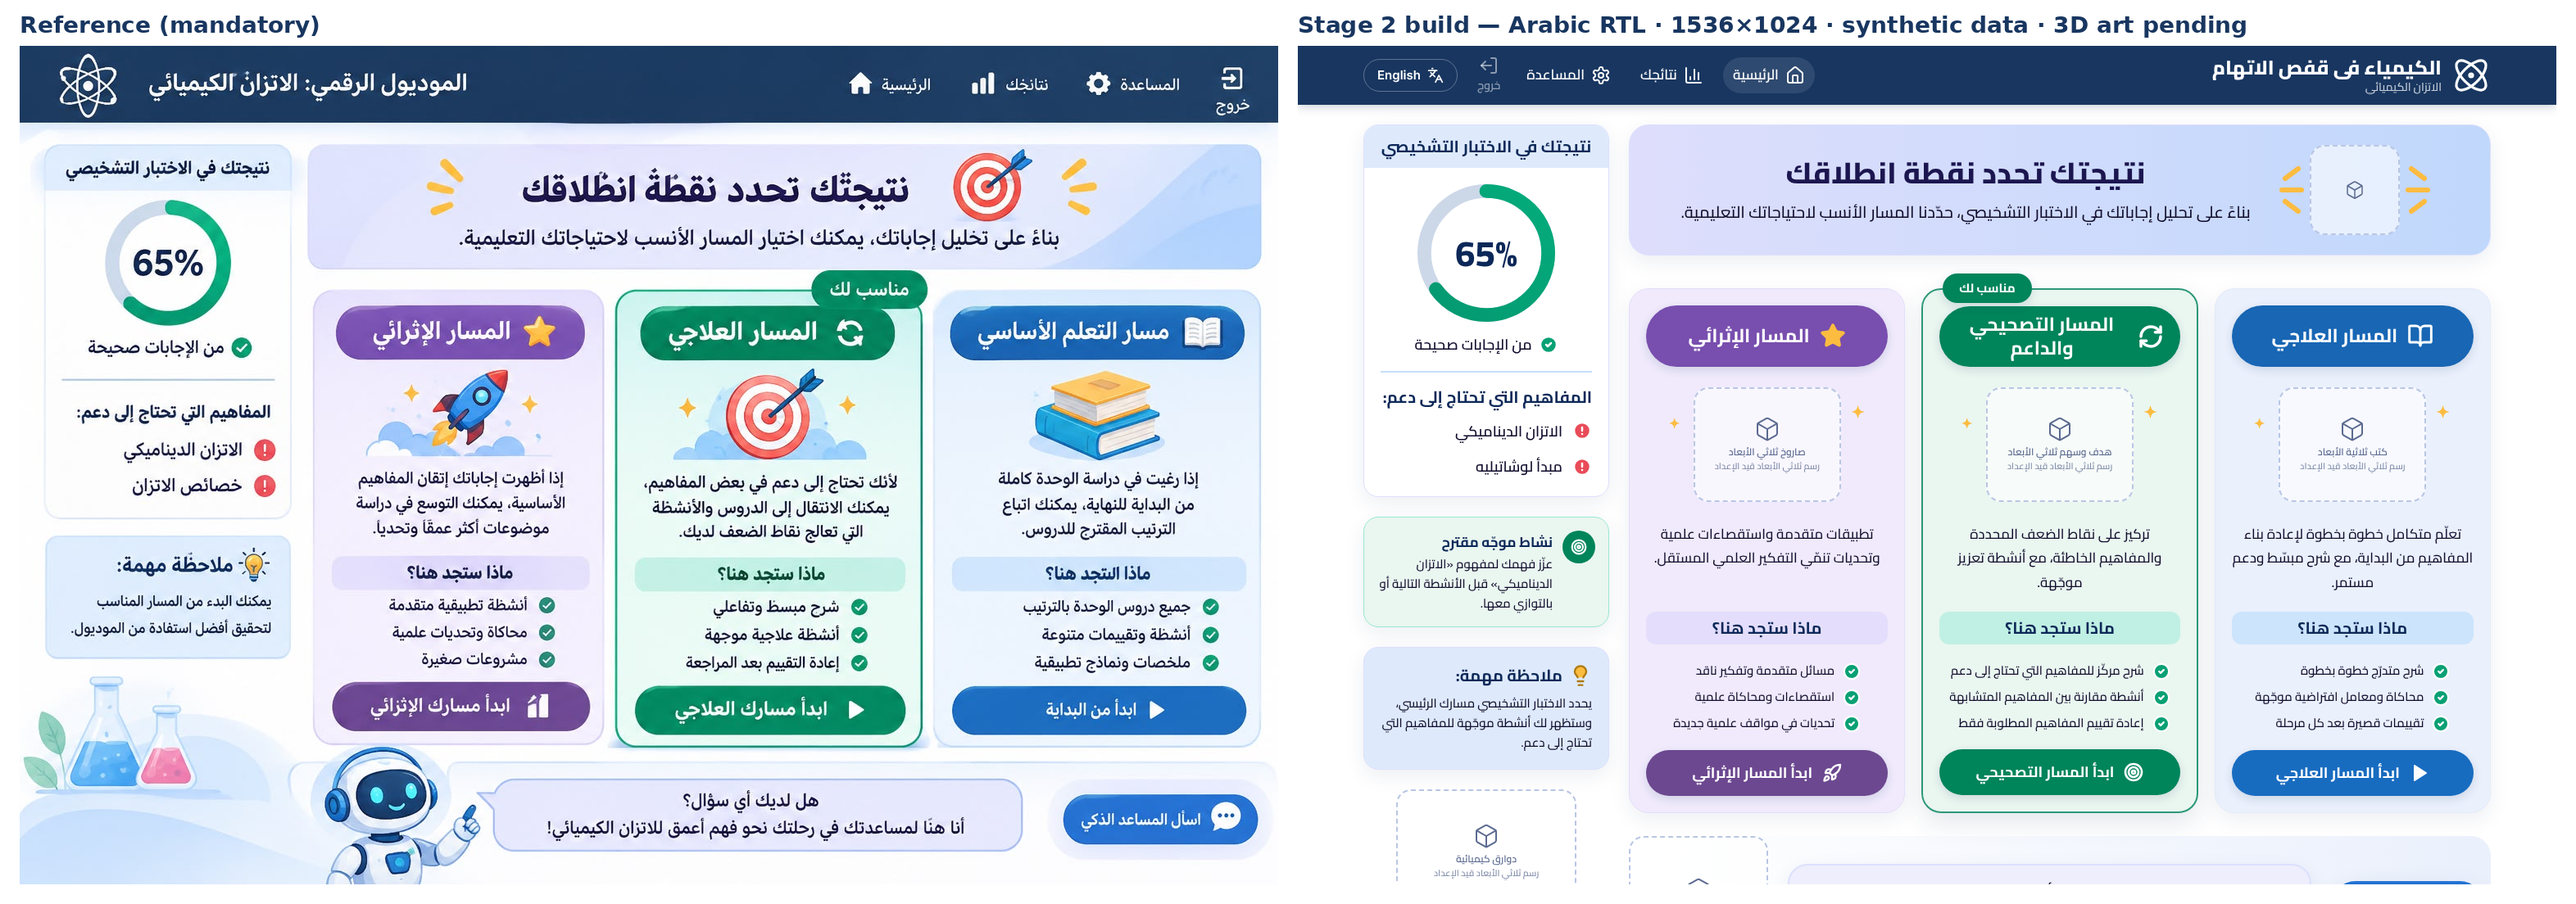
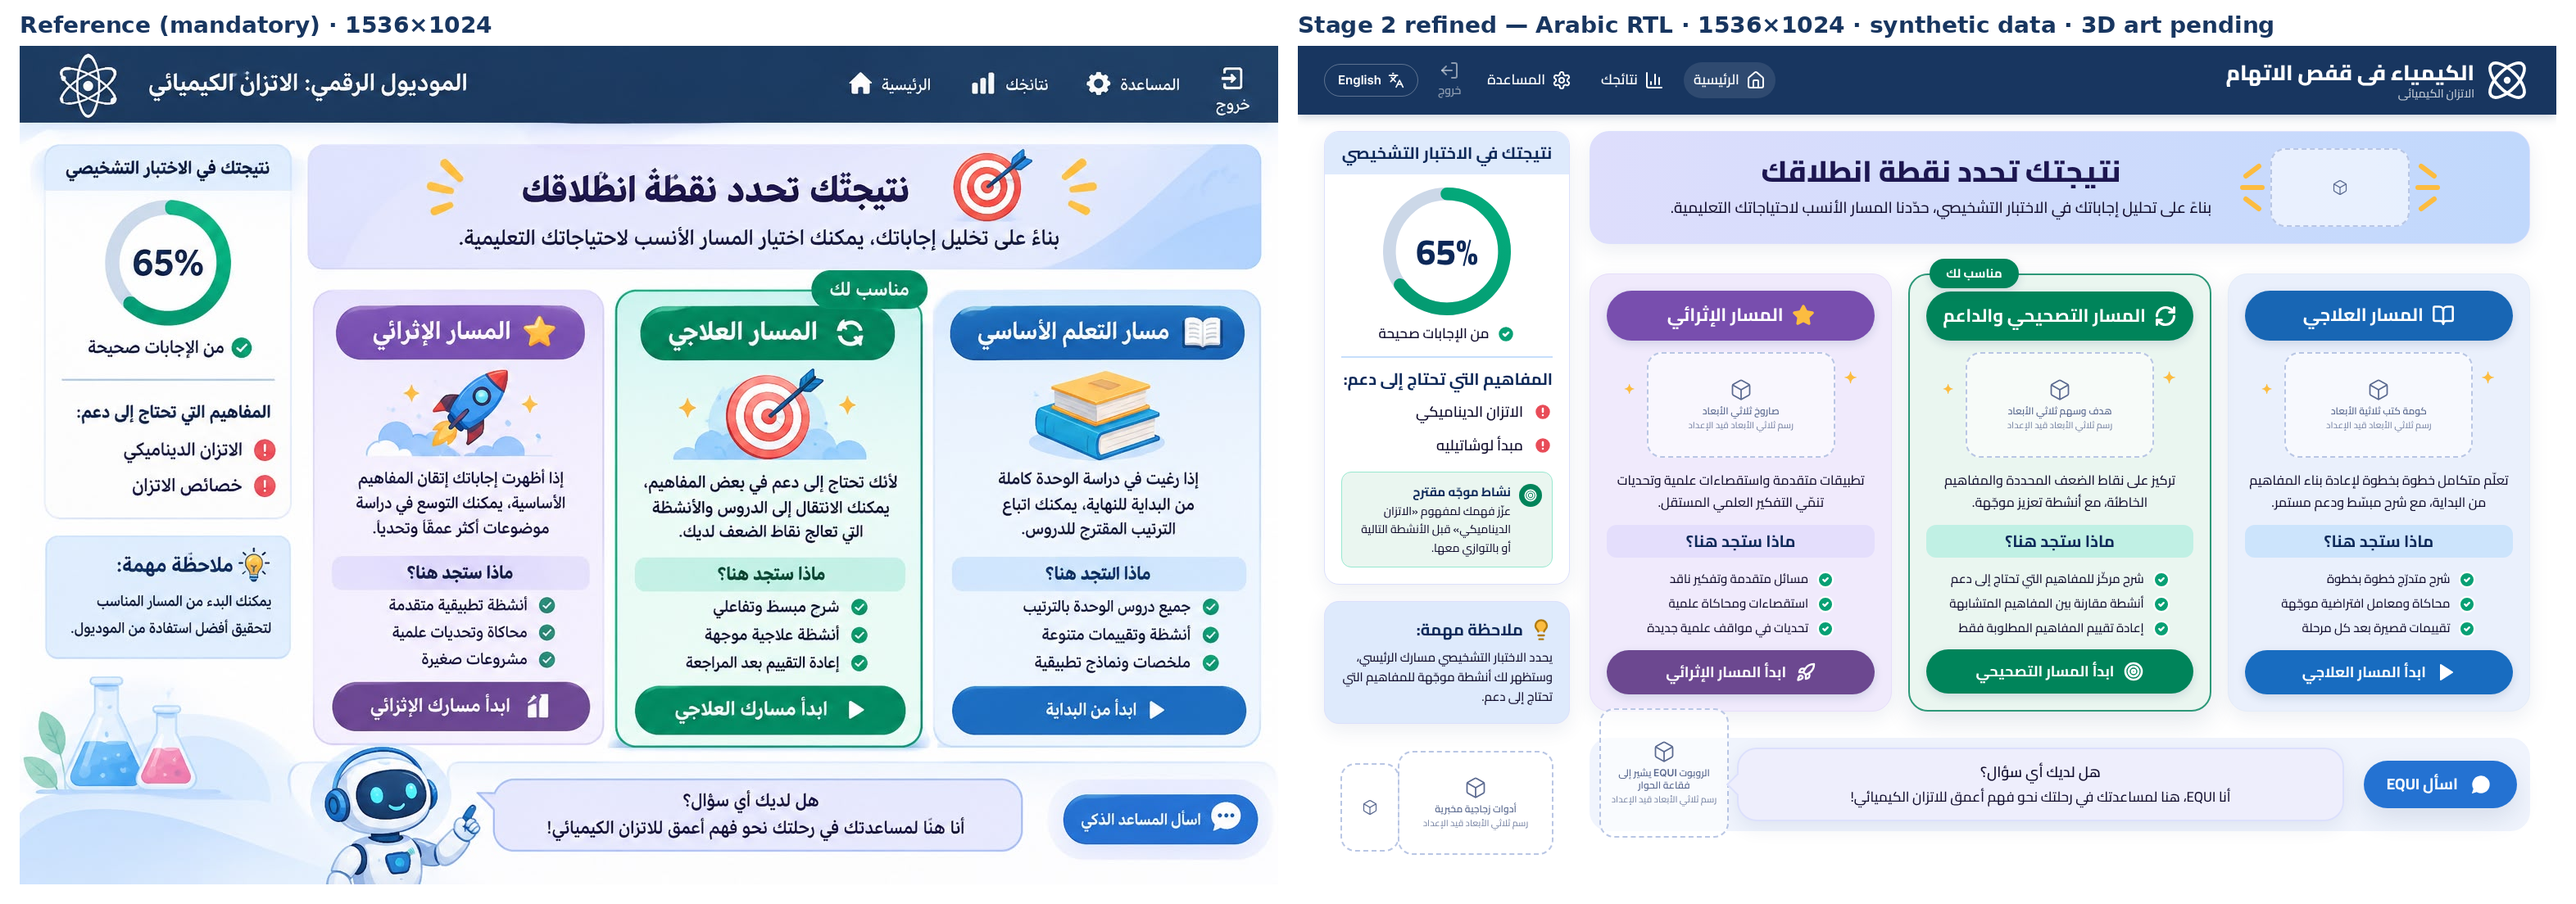
Stage 2 refinements: six-asset delivery spec and refreshed screenshots
Claude-Session: https://claude.ai/code/session_01TD43pZiPUuwCExi8VCKunn

Changed region(s): [[0.4987, 0.0, 0.9975, 0.9855], [0.9039, 0.9547, 0.9663, 0.9855], [0.1247, 0.0, 0.187, 0.0308]]

diff --git a/design/3d-illustration-style-guide.md b/design/3d-illustration-style-guide.md
@@ -49,7 +49,26 @@ Based on the reference robot. EQUI must look the same in every pose.
 - **Proportions:** head about 45 % of total height; friendly and gender-neutral.
 - **Personality:** warm, encouraging, curious. Never scary, never sad.
 
-## 4. Asset list with prompts
+## 4. First six assets — exact delivery specification
+
+These six fill the dashboard slots that already exist in the code (`src/assets/illustrations.ts`). Each slot has a fixed aspect ratio, so deliver images at exactly these proportions. Keep about 8–10 % empty transparent margin around the object, and rest the object on the bottom third (except the rocket, which flies upward).
+
+| # | Asset | Slot / file name | Master to deliver | Aspect | Largest display size (CSS px) |
+|---|---|---|---|---|---|
+| 1 | EQUI robot, pointing toward the speech bubble | `robot/equi-pointing` | **2048 × 2048** | 1 : 1 | 158 × 158 (dashboard), 48 × 48 (chat avatar) |
+| 2 | Remedial — stack of books on a cloud base | `pathways/remedial-books` | **2048 × 1152** | 16 : 9 | 230 × 129 |
+| 3 | Corrective — dartboard target with dart, on a cloud base (also used in the banner) | `pathways/corrective-target` | **2048 × 1152** | 16 : 9 | 230 × 129 (card), 170 × 96 (banner) |
+| 4 | Enrichment — rocket launching, cloud trail | `pathways/enrichment-rocket` | **2048 × 1152** | 16 : 9 | 230 × 129 |
+| 5 | Laboratory glassware — blue Erlenmeyer + pink round-bottom flask (decorative, no experiment) | `chemistry/lab-glassware` | **2048 × 1365** | 3 : 2 | 190 × 127 |
+| 6 | Decorative science elements — mint leaves with a few small floating molecules / sparkles | `ui/science-decor` | **1365 × 2048** | 2 : 3 | 72 × 108 |
+
+**Format for every master:** PNG-24 with transparent background (alpha), sRGB colour profile, no text, no watermark. Larger masters are fine if the aspect ratio is kept. JPEG is not accepted, because it cannot carry transparency.
+
+**What Claude produces from each master:** `<name>.webp` (display size × 1), `<name>@2x.webp` (× 2) and `<name>.png` (fallback), placed under `public/assets/illustrations/`. The slot is then switched on in `src/assets/illustrations.ts`, with no layout change.
+
+Note: in the reference, the robot's direction follows the Arabic layout. EQUI points toward the speech bubble on its reading-start side (to the viewer's right in Arabic). Please generate EQUI **pointing to the viewer's right**; the English layout uses a mirrored copy.
+
+## 5. Asset list with prompts
 
 Every prompt starts with the **shared style block**:
 
@@ -59,12 +78,12 @@ Every prompt starts with the **shared style block**:
 
 | File | Prompt (after the shared style block) |
 |---|---|
-| `pathways/books.png` (Remedial, blue) | *A neat stack of three thick closed books, the top book golden yellow with a lighter label area, the lower books in two shades of blue (#1866B4, #58B0F4), small open book pages visible on one side, sitting on a soft light-blue cloud base with two small gold four-point sparkles.* |
-| `pathways/target.png` (Corrective, green) | *A round dartboard target with white and coral-red rings and a red bullseye, a blue dart arrow with navy fletching stuck exactly in the centre, the target sitting on a soft light-blue cloud base with two small gold four-point sparkles.* |
-| `pathways/rocket.png` (Enrichment, purple) | *A cute cartoon rocket launching diagonally upward to the right, white and blue body with a round window, red-coral fins, soft orange-gold flame, small puffy white-blue cloud trail below, two small gold sparkles.* |
-| `ui/banner-target.png` | *Same dartboard and blue dart as the Corrective target asset but without the cloud base, slightly larger arrow, angled for a banner.* (Gold rays are added by the website as SVG.) |
-| `robot/equi-pointing.png` | *The EQUI robot (spec in section 3) standing, three-quarter view, one hand raised with the index finger pointing up and to the side as if presenting a speech bubble, cheerful smile.* |
-| `chemistry/flasks.png` | *Two glass laboratory flasks side by side: an Erlenmeyer flask with bright blue liquid (#58B0F4) and a smaller round-bottom flask with pink liquid (#F080B0), small bubbles, a few soft mint-green leaves behind them on one side.* **Decorative — not tied to any experiment.** |
+| `pathways/remedial-books.png` (Remedial, blue) | *A neat stack of three thick closed books, the top book golden yellow with a lighter label area, the lower books in two shades of blue (#1866B4, #58B0F4), small open book pages visible on one side, sitting on a soft light-blue cloud base with two small gold four-point sparkles.* |
+| `pathways/corrective-target.png` (Corrective, green) | *A round dartboard target with white and coral-red rings and a red bullseye, a blue dart arrow with navy fletching stuck exactly in the centre, the target sitting on a soft light-blue cloud base with two small gold four-point sparkles.* |
+| `pathways/enrichment-rocket.png` (Enrichment, purple) | *A cute cartoon rocket launching diagonally upward to the right, white and blue body with a round window, red-coral fins, soft orange-gold flame, small puffy white-blue cloud trail below, two small gold sparkles.* |
+| `ui/science-decor.png` | *A small vertical cluster of three soft mint-green leaves (#94D0C0) with two or three tiny glossy molecule spheres in blue and white and two small gold sparkles floating beside them.* Decorative only. |
+| `robot/equi-pointing.png` | *The EQUI robot (spec in section 3) standing, three-quarter view, one hand raised with the index finger pointing up and to the viewer's right as if presenting a speech bubble, cheerful smile.* |
+| `chemistry/lab-glassware.png` | *Two glass laboratory flasks side by side: an Erlenmeyer flask with bright blue liquid (#58B0F4) and a smaller round-bottom flask with pink liquid (#F080B0), small bubbles, a few soft mint-green leaves behind them on one side.* **Decorative — not tied to any experiment.** |
 
 ### Priority 2 — EQUI poses (assistant states)
 
@@ -105,14 +124,14 @@ These depict chemistry and must match the approved scientific content. Do **not*
 | `chemistry/molecules.png` | Decorative molecule cluster | *A few glossy ball-and-stick molecule models in blue, white and coral red, floating loosely.* | Decorative only; must not represent a specific reaction unless approved |
 | `chemistry/catalyst.png` | A10 explorer icon | *A small glossy chip-shaped catalyst pellet with a gentle glow.* | 🟡 #15, #32 (reaction not yet named) |
 
-## 5. Technical delivery specification
+## 6. Technical delivery specification
 
 - **Master:** PNG, 2048 × 2048 px (or the generator's maximum), sRGB, transparent background (alpha channel).
 - **Web exports (Claude):** WebP and PNG fallback at 1× and 2× display size. File names in lower case with hyphens, as listed above.
 - **Folders:** `public/assets/illustrations/{robot,pathways,chemistry,ui,backgrounds}/`.
 - **Alt text:** written in Arabic and English for every asset; decorative assets marked as decorative.
 
-## 6. Provenance record (one entry per asset in `public/assets/illustrations/assets-manifest.json`)
+## 7. Provenance record (one entry per asset in `public/assets/illustrations/assets-manifest.json`)
 
 ```json
 {
@@ -130,7 +149,7 @@ These depict chemistry and must match the approved scientific content. Do **not*
 }
 ```
 
-## 7. Consistency checklist (applied to every candidate)
+## 8. Consistency checklist (applied to every candidate)
 
 - [ ] Light comes from the upper left; shadows are soft.
 - [ ] Glossy finish matches the reference books, rocket and target.
@@ -141,7 +160,7 @@ These depict chemistry and must match the approved scientific content. Do **not*
 - [ ] EQUI matches the mascot specification exactly (visor, eyes, headphones).
 - [ ] Chemistry assets: scientifically approved before use.
 
-## 8. Questions for the owner
+## 9. Questions for the owner
 
 1. Which image generator will you use? Its licence terms go into the provenance record.
 2. Is the Priority 1 list complete for the first visual review?

diff --git a/design/design-tokens.md b/design/design-tokens.md
@@ -53,7 +53,7 @@ All colours were sampled from `public/reference/primary-dashboard-reference.jpg`
 | Use | Size / line height | Weight | Font |
 |---|---|---|---|
 | Display (banner) | 36 / 44 px | 800 | Cairo (Arabic) · Inter (English) |
-| Pathway title pill | 21–23 px, tight leading | 700 | ″ |
+| Pathway title pill | 21–22 px, balanced wrapping | 700 | ″ |
 | H2 | 26 / 34 px | 700 | ″ |
 | H3 | 20 / 28 px | 700 | ″ |
 | Body | 17 / 28 px | 500 | ″ |
@@ -74,9 +74,9 @@ Fonts are bundled with the site (no requests to Google from students' browsers).
 | `shadow.card` | `0 8px 24px rgba(24,54,96,0.08)` |
 | `shadow.raised` | `0 12px 32px rgba(24,54,96,0.12)` |
 | `shadow.button` | `0 4px 12px rgba(24,54,96,0.14)` |
-| Navigation height | 72 px |
+| Navigation height | 84 px desktop · 64 px mobile |
 | Side column | 300 px |
-| Max page width | 1440 px |
+| Max page width | 1536 px (matches the reference) |
 | Gutters | 32 px desktop · 16 px mobile |
 
 ## Accessibility contrast (WCAG AA)
